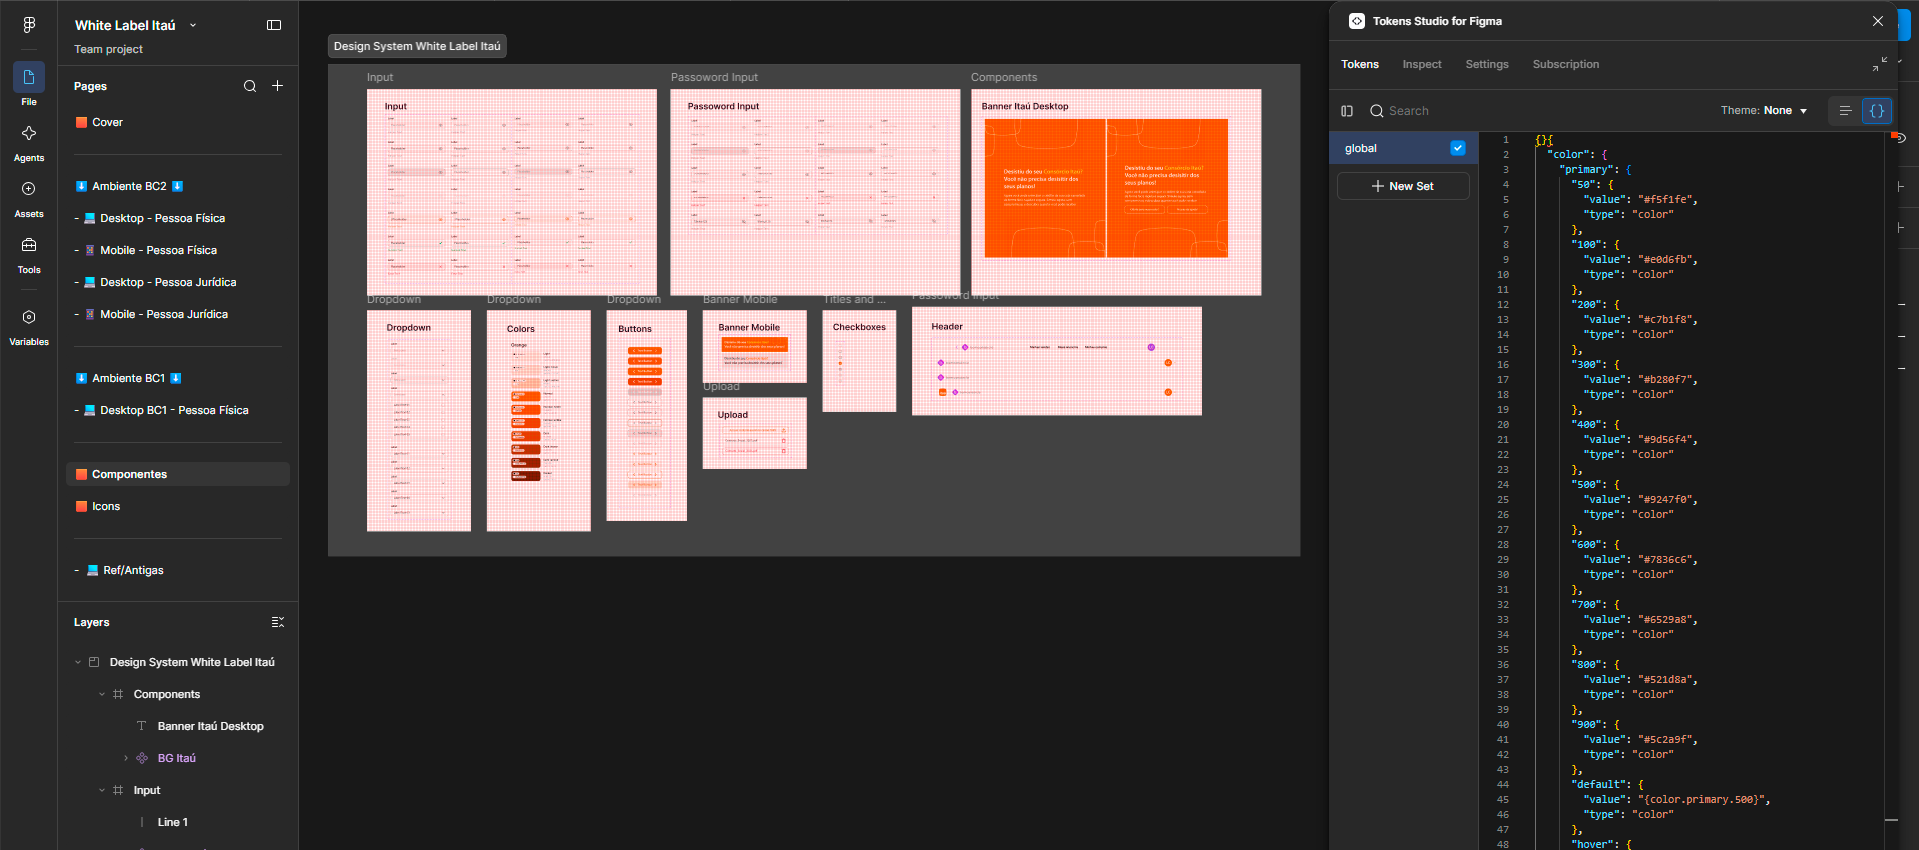
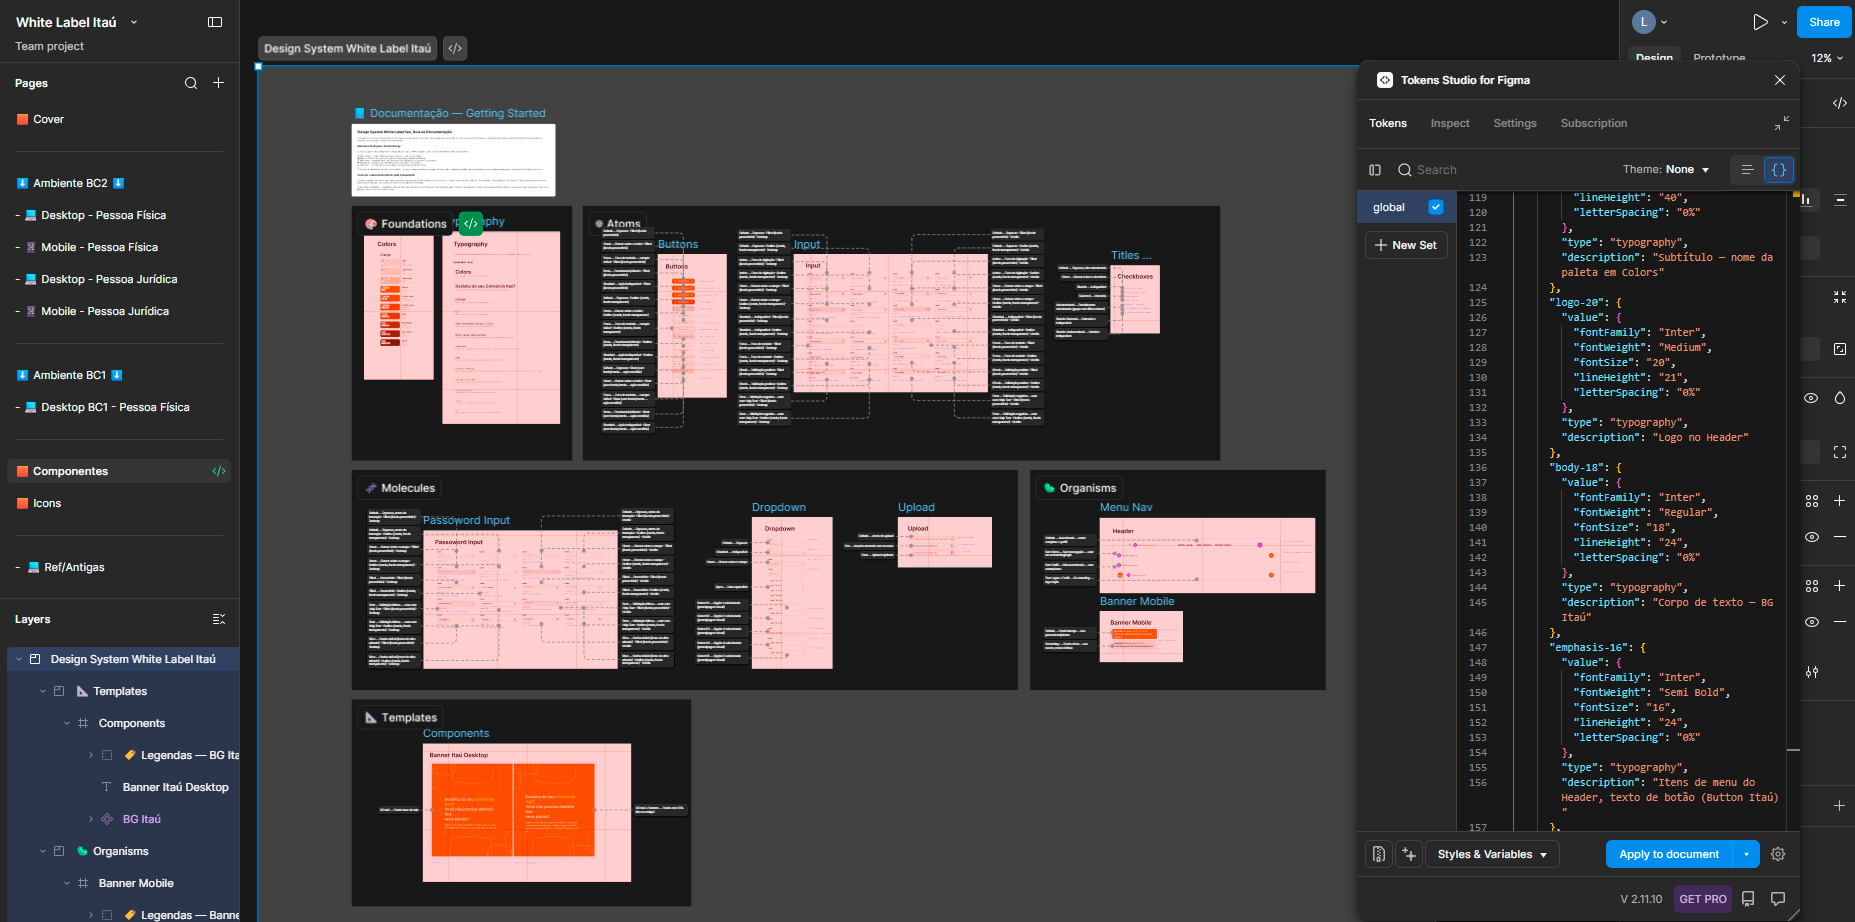
Adiciona seção de raciocínio do design system no case Itaú

diff --git a/main.js b/main.js
@@ -742,7 +742,8 @@ const CASES={
       {txt:'Aumentar a proporção de componentes reaproveitados sem reconstrução',meta:'80%+ (hipótese)'},
       {txt:'Lançar a versão white label dentro do prazo acordado com o Itaú',meta:'No prazo'}
     ],
-    sol:'<div class="ch-sol-cards"><div class="ch-sol-card"><div class="ch-sol-card-num">01</div><div class="ch-sol-card-title">Tokenização de marca</div><div class="ch-sol-card-desc">Cor, tipografia, logo e ícones do header foram isolados em uma camada de tema, plugável por cima da arquitetura de fluxo do BomConsórcio, sem tocar na lógica de cadastro, oferta ou verificação de identidade.</div></div><div class="ch-sol-card"><div class="ch-sol-card-num">02</div><div class="ch-sol-card-title">Header e navegação com identidade própria</div><div class="ch-sol-card-desc">Logo Itaú, paleta laranja e microcopy adaptado ("Consórcio Itaú") substituíram os equivalentes do BomConsórcio em todos os pontos de contato, do login à tela de "sem oferta no momento".</div></div><div class="ch-sol-card"><div class="ch-sol-card-num">03</div><div class="ch-sol-card-title">Landing page da parceria</div><div class="ch-sol-card-desc">Página dedicada com "Como funciona", vantagens de vender com o BomConsórcio e FAQ, criada para legitimar a parceria bancária antes mesmo do cliente entrar no fluxo de venda.</div></div><div class="ch-sol-card"><div class="ch-sol-card-num">04</div><div class="ch-sol-card-title">Mini design system White Label</div><div class="ch-sol-card-desc">Construí um mini design system cobrindo os dois ambientes (externo e interno), desktop e app, PF e PJ, tokens de marca, componentes de formulário, estados de erro e sucesso, sustentando toda a jornada mapeada sem retrabalho tela a tela.</div></div></div><div class="ch-sol-aside"><div class="ch-sol-aside-label">A decisão mais negociada</div><p>A cada rodada de aprovação, o time de branding do Itaú pedia ajustes finos, tom exato do laranja, peso da fonte no header, distância mínima do logo. Cada ida e volta consumia dias que o cronograma da parceria não previa. A saída não foi negociar menos rodadas, foi antecipar: levantei o manual de marca do Itaú antes de desenhar a primeira tela e validei protótipos de baixa fidelidade direto com a responsável por branding, para só então avançar para alta fidelidade. Isso não eliminou as rodadas de aprovação, mas reduziu o retrabalho em cada uma, protegendo o prazo apertado da parceria.</p></div>',
+    sol:'<div class="ch-sol-cards"><div class="ch-sol-card"><div class="ch-sol-card-num">01</div><div class="ch-sol-card-title">Tokenização de marca</div><div class="ch-sol-card-desc">Cor, tipografia, logo e ícones do header foram isolados em uma camada de tema, plugável por cima da arquitetura de fluxo do BomConsórcio, sem tocar na lógica de cadastro, oferta ou verificação de identidade.</div></div><div class="ch-sol-card"><div class="ch-sol-card-num">02</div><div class="ch-sol-card-title">Header e navegação com identidade própria</div><div class="ch-sol-card-desc">Logo Itaú, paleta laranja e microcopy adaptado ("Consórcio Itaú") substituíram os equivalentes do BomConsórcio em todos os pontos de contato, do login à tela de "sem oferta no momento".</div></div><div class="ch-sol-card"><div class="ch-sol-card-num">03</div><div class="ch-sol-card-title">Landing page da parceria</div><div class="ch-sol-card-desc">Página dedicada com "Como funciona", vantagens de vender com o BomConsórcio e FAQ, criada para legitimar a parceria bancária antes mesmo do cliente entrar no fluxo de venda.</div></div><div class="ch-sol-card"><div class="ch-sol-card-num">04</div><div class="ch-sol-card-title">Mini design system White Label</div><div class="ch-sol-card-desc">Construí um mini design system cobrindo os dois ambientes (externo e interno), desktop e app, PF e PJ, tokens de marca, componentes de formulário, estados de erro e sucesso, sustentando toda a jornada mapeada sem retrabalho tela a tela.</div></div></div><div class="ch-sol-aside"><div class="ch-sol-aside-label">A decisão mais negociada</div><p>A cada rodada de aprovação, o time de branding do Itaú pedia ajustes finos, tom exato do laranja, peso da fonte no header, distância mínima do logo. Cada ida e volta consumia dias que o cronograma da parceria não previa. A saída não foi negociar menos rodadas, foi antecipar: levantei o manual de marca do Itaú antes de desenhar a primeira tela e validei protótipos de baixa fidelidade direto com a responsável por branding, para só então avançar para alta fidelidade. Isso não eliminou as rodadas de aprovação, mas reduziu o retrabalho em cada uma, protegendo o prazo apertado da parceria.</p></div>'
+    +'<h3 style="margin-top:56px">Documentando e organizando o design system</h3><div class="ch-sol-cards"><div class="ch-sol-card"><div class="ch-sol-card-num">01</div><div class="ch-sol-card-title">Diagnóstico antes de editar</div><div class="ch-sol-card-desc">Antes de mudar qualquer componente, mapeei o mini design system que já existia: 9 peças sem descrição, sem anotação de estado, e duas com nomes genéricos que não diziam nada sobre o que mudava entre uma variante e outra.</div></div><div class="ch-sol-card"><div class="ch-sol-card-num">02</div><div class="ch-sol-card-title">Nome certo por confirmação, não suposição</div><div class="ch-sol-card-desc">Em vez de assumir o que "State2" ou "State3" significavam, comparei a diferença visual real entre as variantes, cor de fundo, cor do texto, e só apliquei o nome novo depois de confirmar. Design system errado por suposição é pior que design system sem nome.</div></div><div class="ch-sol-card"><div class="ch-sol-card-num">03</div><div class="ch-sol-card-title">Um erro técnico escondido</div><div class="ch-sol-card-desc">Duas variantes do campo de texto tinham o mesmo nome, quebrando a leitura de propriedades no Dev Mode. O padrão de posição no set, faltava exatamente o par Ativo + Mobile, confirmou que era erro de digitação, não uma variante de propósito.</div></div><div class="ch-sol-card"><div class="ch-sol-card-num">04</div><div class="ch-sol-card-title">Cor solta virou token</div><div class="ch-sol-card-desc">A paleta inteira existia só como referência visual, sem nenhuma Variable de verdade. Criei a coleção de cor no Figma, marca, neutros e texto, e reapliquei em mais de 500 elementos que antes usavam cor fixa direto no fill.</div></div><div class="ch-sol-card"><div class="ch-sol-card-num">05</div><div class="ch-sol-card-title">Documentação em dois lugares</div><div class="ch-sol-card-desc">Anotação que só aparece no Dev Mode não ajuda quem abre o arquivo no modo normal. Cada variante ganhou legenda técnica no Dev Mode e legenda visível direto no canvas, sem depender de nenhuma das duas sozinha.</div></div><div class="ch-sol-card"><div class="ch-sol-card-num">06</div><div class="ch-sol-card-title">Organização pelo padrão real</div><div class="ch-sol-card-desc">Meu primeiro instinto foi empilhar tudo em ordem lógica. Antes de aceitar isso como certo, chequei se era assim que design systems de referência se organizam. Não era. Reorganizei pelo Atomic Design, Foundations, Atoms, Molecules, Organisms, Templates, o mesmo modelo usado por Google e Atlassian, e consolidei as 3 fontes misturadas no arquivo, uma delas licenciada e sem nem carregar em todo ambiente, numa família só.</div></div></div><div class="ch-sol-aside"><div class="ch-sol-aside-label">O raciocínio por trás da ordem</div><p>Resolvi do mais simples pro mais complexo de propósito. Renomear um estado errado é rápido e mostra progresso na hora. Migrar quinhentos elementos pra token, ou trocar fonte em cento e noventa lugares, é arriscado se as decisões pequenas antes ainda não tiverem validadas. Cada gap resolvido virou confiança pro próximo, e o arquivo saiu documentado, auditado e pronto pra virar tokens.json exportável pro time de dev.</p></div></div>',
     resultsLabel:'Resultados',
     medicao:{texto:'A entrega no prazo e a cobertura completa (PF/PJ, desktop/app) são fatos verificáveis do escopo entregue. Os demais resultados são projeções, já que não houve acesso a dados pós-lançamento no escopo deste projeto, baseadas no acompanhamento qualitativo das rodadas de aprovação de marca e no comparativo de componentes reaproveitados vs. recriados durante a adaptação.',tools:['Figma — prototipagem de baixa e alta fidelidade, handoff para desenvolvimento','Design Tokens + Tokens Studio — design system com tokens de cor, tipografia e espaçamento','Rodadas de aprovação com branding do Itaú — validação qualitativa por tela','IA generativa: Claude, apoio na estruturação e documentação']},
     results:[
@@ -778,7 +779,8 @@ const CASES={
         {txt:'Increase the proportion of components reused without rebuild',meta:'80%+ (hypothesis)'},
         {txt:'Launch the white label version within the deadline agreed with Itaú',meta:'On time'}
       ],
-      sol:'<div class="ch-sol-cards"><div class="ch-sol-card"><div class="ch-sol-card-num">01</div><div class="ch-sol-card-title">Brand tokenization</div><div class="ch-sol-card-desc">Color, typography, logo and header icons were isolated into a theme layer, pluggable on top of BomConsórcio\'s flow architecture, without touching the signup, offer or identity verification logic.</div></div><div class="ch-sol-card"><div class="ch-sol-card-num">02</div><div class="ch-sol-card-title">Header and navigation with its own identity</div><div class="ch-sol-card-desc">Itaú\'s logo, orange palette and adapted microcopy ("Consórcio Itaú") replaced BomConsórcio\'s equivalents across every touchpoint, from login to the "no offer available" screen.</div></div><div class="ch-sol-card"><div class="ch-sol-card-num">03</div><div class="ch-sol-card-title">Partnership landing page</div><div class="ch-sol-card-desc">A dedicated page with "How it works," reasons to sell through BomConsórcio, and an FAQ, built to legitimize the banking partnership before the client even entered the sale flow.</div></div><div class="ch-sol-card"><div class="ch-sol-card-num">04</div><div class="ch-sol-card-title">White label mini design system</div><div class="ch-sol-card-desc">I built a mini design system covering both environments (external and internal), desktop and app, individual and business clients, brand tokens, form components, error and success states, sustaining the entire mapped journey without screen-by-screen rework.</div></div></div><div class="ch-sol-aside"><div class="ch-sol-aside-label">The most negotiated decision</div><p>At every approval round, Itaú\'s branding team asked for fine adjustments, the exact shade of orange, the header\'s font weight, the logo\'s minimum clear space. Each round-trip ate into days the partnership\'s timeline hadn\'t budgeted for. The fix wasn\'t negotiating fewer rounds, it was getting ahead of them: I pulled Itaú\'s brand manual before drawing the first screen and validated low-fidelity prototypes directly with the branding lead, only moving to high fidelity afterward. That didn\'t eliminate approval rounds, but it cut rework in each one, protecting the partnership\'s tight deadline.</p></div>',
+      sol:'<div class="ch-sol-cards"><div class="ch-sol-card"><div class="ch-sol-card-num">01</div><div class="ch-sol-card-title">Brand tokenization</div><div class="ch-sol-card-desc">Color, typography, logo and header icons were isolated into a theme layer, pluggable on top of BomConsórcio\'s flow architecture, without touching the signup, offer or identity verification logic.</div></div><div class="ch-sol-card"><div class="ch-sol-card-num">02</div><div class="ch-sol-card-title">Header and navigation with its own identity</div><div class="ch-sol-card-desc">Itaú\'s logo, orange palette and adapted microcopy ("Consórcio Itaú") replaced BomConsórcio\'s equivalents across every touchpoint, from login to the "no offer available" screen.</div></div><div class="ch-sol-card"><div class="ch-sol-card-num">03</div><div class="ch-sol-card-title">Partnership landing page</div><div class="ch-sol-card-desc">A dedicated page with "How it works," reasons to sell through BomConsórcio, and an FAQ, built to legitimize the banking partnership before the client even entered the sale flow.</div></div><div class="ch-sol-card"><div class="ch-sol-card-num">04</div><div class="ch-sol-card-title">White label mini design system</div><div class="ch-sol-card-desc">I built a mini design system covering both environments (external and internal), desktop and app, individual and business clients, brand tokens, form components, error and success states, sustaining the entire mapped journey without screen-by-screen rework.</div></div></div><div class="ch-sol-aside"><div class="ch-sol-aside-label">The most negotiated decision</div><p>At every approval round, Itaú\'s branding team asked for fine adjustments, the exact shade of orange, the header\'s font weight, the logo\'s minimum clear space. Each round-trip ate into days the partnership\'s timeline hadn\'t budgeted for. The fix wasn\'t negotiating fewer rounds, it was getting ahead of them: I pulled Itaú\'s brand manual before drawing the first screen and validated low-fidelity prototypes directly with the branding lead, only moving to high fidelity afterward. That didn\'t eliminate approval rounds, but it cut rework in each one, protecting the partnership\'s tight deadline.</p></div>'
+        +'<h3 style="margin-top:56px">Documenting and organizing the design system</h3><div class="ch-sol-cards"><div class="ch-sol-card"><div class="ch-sol-card-num">01</div><div class="ch-sol-card-title">Diagnosis before editing anything</div><div class="ch-sol-card-desc">Before touching a single component, I mapped the mini design system that already existed: 9 pieces with no description, no state annotation, and two with generic names that said nothing about what actually changed between variants.</div></div><div class="ch-sol-card"><div class="ch-sol-card-num">02</div><div class="ch-sol-card-title">Correct naming by confirmation, not assumption</div><div class="ch-sol-card-desc">Instead of guessing what "State2" or "State3" meant, I compared the real visual difference between variants, background color, text color, and only applied the new name after confirming it. A design system named wrong by assumption is worse than one with no name at all.</div></div><div class="ch-sol-card"><div class="ch-sol-card-num">03</div><div class="ch-sol-card-title">A hidden technical error</div><div class="ch-sol-card-desc">Two variants of the text field shared the exact same name, breaking property reading in Dev Mode. The position pattern in the set, missing exactly the Active plus Mobile pair, confirmed it was a typo, not an intentional variant.</div></div><div class="ch-sol-card"><div class="ch-sol-card-num">04</div><div class="ch-sol-card-title">Loose color became a token</div><div class="ch-sol-card-desc">The whole palette existed only as a visual reference, with no real Variable behind it. I created the color collection in Figma, brand, neutrals and text, and reapplied it across more than 500 elements that previously used a fixed color straight in the fill.</div></div><div class="ch-sol-card"><div class="ch-sol-card-num">05</div><div class="ch-sol-card-title">Documentation in two places</div><div class="ch-sol-card-desc">An annotation that only shows up in Dev Mode doesn\'t help whoever opens the file in normal mode. Every variant got a technical caption in Dev Mode and a visible caption right on the canvas, without depending on either one alone.</div></div><div class="ch-sol-card"><div class="ch-sol-card-num">06</div><div class="ch-sol-card-title">Organized by the real standard</div><div class="ch-sol-card-desc">My first instinct was to stack everything in logical order. Before accepting that as correct, I checked whether that\'s actually how reference design systems organize themselves. It wasn\'t. I reorganized using Atomic Design, Foundations, Atoms, Molecules, Organisms, Templates, the same model used by Google and Atlassian, and consolidated the file\'s three mixed fonts, one of them licensed and not even loading in every environment, into a single family.</div></div></div><div class="ch-sol-aside"><div class="ch-sol-aside-label">The reasoning behind the order</div><p>I solved things from simplest to most complex on purpose. Renaming one wrong state is fast and shows progress right away. Migrating five hundred elements to tokens, or swapping fonts in a hundred and ninety places, is risky if the smaller decisions before it haven\'t been validated yet. Each resolved gap became confidence for the next one, and the file came out documented, audited, and ready to become an exportable tokens.json for the dev team.</p></div></div>',
       resultsLabel:'Results',
       results:[
         ['0→1','Full white label delivery, two environments, desktop and app, individual and business, within the deadline agreed with Itaú.','ti-calendar-check','check','delivered'],
